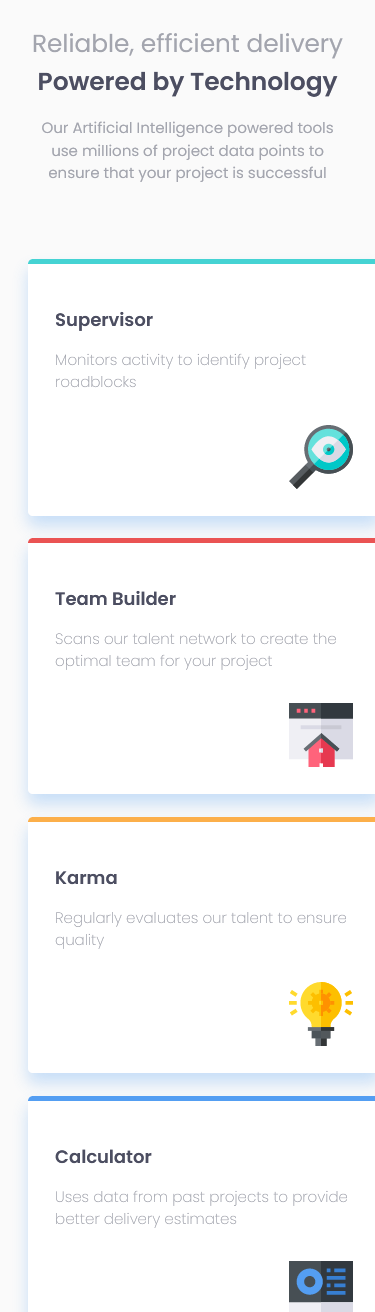
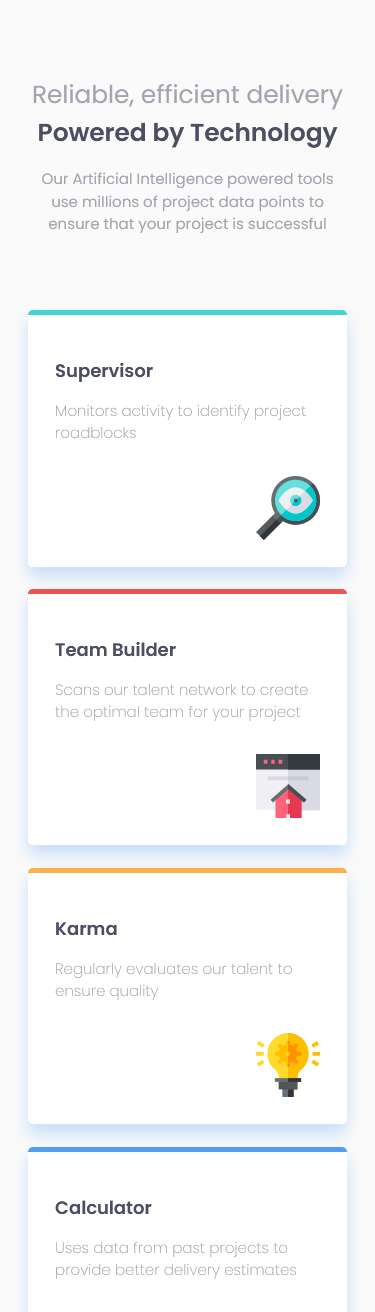
proyecto final

diff --git a/Css/style.css b/Css/style.css
@@ -29,7 +29,11 @@ body {
     font-weight: 400;
     font-style: normal;
     background-color: var(--very-light-gray);
-
+    display: flex;
+    min-height: 100vh;
+    flex-direction: column;
+    justify-content: center;
+    align-items: center;
 }
 
 .header {
@@ -57,12 +61,11 @@ body {
     
 .cards {
     width: 85%;
-
     margin: auto;
-}
+  }
 
 .card {
-    width: 352px;
+    width: min(100%, 352px);
     padding: 1.8rem;
     margin: auto;
     margin-bottom: 1.5rem;
@@ -74,12 +77,15 @@ body {
   .card--super {
     border-top: 5px solid var(--cyan);
   }
+
   .card--team {
     border-top: 5px solid var(--red);
   }
+
   .card--karma {
     border-top: 5px solid var(--orange);
   }
+  
   .card--calcu {
     border-top: 5px solid var(--blue);
   }
@@ -126,13 +132,11 @@ body {
     align-items: center;
   }
     
-
   .card--super {
     grid-area: supervi;
     transform: translateY(-50%);
-    
   }
-  
+    
   .card--team {
     grid-area: team;
   }

diff --git a/README.md b/README.md
@@ -2,49 +2,6 @@
 
 ![Design preview for the Four card feature section coding challenge](./design/desktop-preview.jpg)
 
-## Welcome! 👋
-
-Thanks for checking out this front-end coding challenge.
-
-[Frontend Mentor](https://www.frontendmentor.io) challenges help you improve your coding skills by building realistic projects.
-
-**To do this challenge, you need a basic understanding of HTML and CSS.**
-
-## The challenge
-
-Your challenge is to build out this feature section and get it looking as close to the design as possible.
-
-You can use any tools you like to help you complete the challenge. So if you've got something you'd like to practice, feel free to give it a go.
-
-Your users should:
-
-- View the optimal layout for the site depending on their device's screen size
-
-Want some support on the challenge? [Join our community](https://www.frontendmentor.io/community) and ask questions in the **#help** channel.
-
-## Where to find everything
-
-Your task is to build out the project to the designs inside the `/design` folder. You will find both a mobile and a desktop version of the design. 
-
-The designs are in JPG static format. Using JPGs will mean that you'll need to use your best judgment for styles such as `font-size`, `padding` and `margin`. 
-
-If you would like the design files (we provide Sketch & Figma versions) to inspect the design in more detail, you can [subscribe as a PRO member](https://www.frontendmentor.io/pro).
-
-You will find all the required assets in the `/images` folder. The assets are already optimized.
-
-There is also a `style-guide.md` file containing the information you'll need, such as color palette and fonts.
-
-## Building your project
-
-Feel free to use any workflow that you feel comfortable with. Below is a suggested process, but do not feel like you need to follow these steps:
-
-1. Initialize your project as a public repository on [GitHub](https://github.com/). Creating a repo will make it easier to share your code with the community if you need help. If you're not sure how to do this, [have a read-through of this Try Git resource](https://try.github.io/).
-2. Configure your repository to publish your code to a web address. This will also be useful if you need some help during a challenge as you can share the URL for your project with your repo URL. There are a number of ways to do this, and we provide some recommendations below.
-3. Look through the designs to start planning out how you'll tackle the project. This step is crucial to help you think ahead for CSS classes to create reusable styles.
-4. Before adding any styles, structure your content with HTML. Writing your HTML first can help focus your attention on creating well-structured content.
-5. Write out the base styles for your project, including general content styles, such as `font-family` and `font-size`.
-6. Start adding styles to the top of the page and work down. Only move on to the next section once you're happy you've completed the area you're working on.
-
 ## Deploying your project
 
 As mentioned above, there are many ways to host your project for free. Our recommended hosts are:
@@ -55,37 +12,74 @@ As mentioned above, there are many ways to host your project for free. Our recom
 
 You can host your site using one of these solutions or any of our other trusted providers. [Read more about our recommended and trusted hosts](https://medium.com/frontend-mentor/frontend-mentor-trusted-hosting-providers-bf000dfebe).
 
-## Create a custom `README.md`
-
-We strongly recommend overwriting this `README.md` with a custom one. We've provided a template inside the [`README-template.md`](./README-template.md) file in this starter code.
-
-The template provides a guide for what to add. A custom `README` will help you explain your project and reflect on your learnings. Please feel free to edit our template as much as you like.
-
-Once you've added your information to the template, delete this file and rename the `README-template.md` file to `README.md`. That will make it show up as your repository's README file.
-
-## Submitting your solution
-
-Submit your solution on the platform for the rest of the community to see. Follow our ["Complete guide to submitting solutions"](https://medium.com/frontend-mentor/a-complete-guide-to-submitting-solutions-on-frontend-mentor-ac6384162248) for tips on how to do this.
-
-Remember, if you're looking for feedback on your solution, be sure to ask questions when submitting it. The more specific and detailed you are with your questions, the higher the chance you'll get valuable feedback from the community.
-
-## Sharing your solution
-
-There are multiple places you can share your solution:
-
-1. Share your solution page in the **#finished-projects** channel of the [community](https://www.frontendmentor.io/community). 
-2. Tweet [@frontendmentor](https://twitter.com/frontendmentor) and mention **@frontendmentor**, including the repo and live URLs in the tweet. We'd love to take a look at what you've built and help share it around.
-3. Share your solution on other social channels like LinkedIn.
-4. Blog about your experience building your project. Writing about your workflow, technical choices, and talking through your code is a brilliant way to reinforce what you've learned. Great platforms to write on are [dev.to](https://dev.to/), [Hashnode](https://hashnode.com/), and [CodeNewbie](https://community.codenewbie.org/).
-
-We provide templates to help you share your solution once you've submitted it on the platform. Please do edit them and include specific questions when you're looking for feedback. 
-
-The more specific you are with your questions the more likely it is that another member of the community will give you feedback.
-
 ## Got feedback for us?
 
 We love receiving feedback! We're always looking to improve our challenges and our platform. So if you have anything you'd like to mention, please email hi[at]frontendmentor[dot]io.
 
 This challenge is completely free. Please share it with anyone who will find it useful for practice.
 
-**Have fun building!** 🚀
+# Frontend Mentor - Four card feature section solution
+
+This is a solution to the [Four card feature section challenge on Frontend Mentor](https://www.frontendmentor.io/challenges/four-card-feature-section-weK1eFYK). Frontend Mentor challenges help you improve your coding skills by building realistic projects. 
+
+## Table of contents
+
+- [Overview](#overview)
+  - [The challenge](#the-challenge)
+  - [Screenshot](#screenshot)
+  - [Links](#links)
+- [My process](#my-process)
+  - [Built with](#built-with)
+  - [What I learned](#what-i-learned)
+  - [Continued development](#continued-development)
+- [Author](#author)
+  
+## Overview
+Se trata de cuatro tarjetas que están alineadas en bloque en diseño móvil e intercaladas en estilo escritorio.
+
+### The challenge
+El reto está dividido, claramente en dos partes.
+Una en la que hay una disposición de un columna
+y la otra con grid en 3 columnas y dos filas.
+
+### Screenshot
+
+![mobile](./captures/four-cards-mobile.png)
+![desktop](./captures/four-cards-desktop.png)
+
+### Links
+
+- Solution URL: [Add solution URL here](https://github.com/juan-mentor/four-card-feature-section-master.git)
+- Live Site URL: [Add live site URL here](https://juan-mentor.github.io/four-feature-section-master/)
+
+## My process
+Este es mi primer proyecto con Css grid, que ha resultado un tanto decepcionante, porque no he sabido recolocar los items como me pedían en el reto.
+
+Así como en Flexbox, tengo más claro que width o flex-basis deben tener los items, en grid no tengo claro como tengo que hacerlo.
+
+Por lo demás ha ido bien. Primero he empezado por móvil, del que no he tenido problemas y luego he querido hacer dos consultas de medios. Por que creí necesario hacer una transición entre una columna (móvil), dos columnas y tres columnas (desktop).
+
+### Built with
+
+- Semantic HTML5 markup
+- CSS custom properties
+- Flexbox
+- CSS Grid
+- Mobile-first workflow
+
+### What I learned
+
+He aprendido a como utilizar box-shadow de forma correcta. Al principio no atinaba con el color y era porque tenía una opcidad grande, además de un difuminado.
+
+```css
+.card {
+  box-shadow: 0 10px 15px hsla(212, 86%, 64%, 0.3);
+}
+```
+
+### Continued development
+Me gustaría seguir ampliando sobre Css grid, al parecer no se como alinear sus elementos hijos ni verticalmente, ni horizontalmente.
+
+## Author
+
+- Frontend Mentor - [@yjuan-mentor](https://www.frontendmentor.io/profile/juan-mentor)
